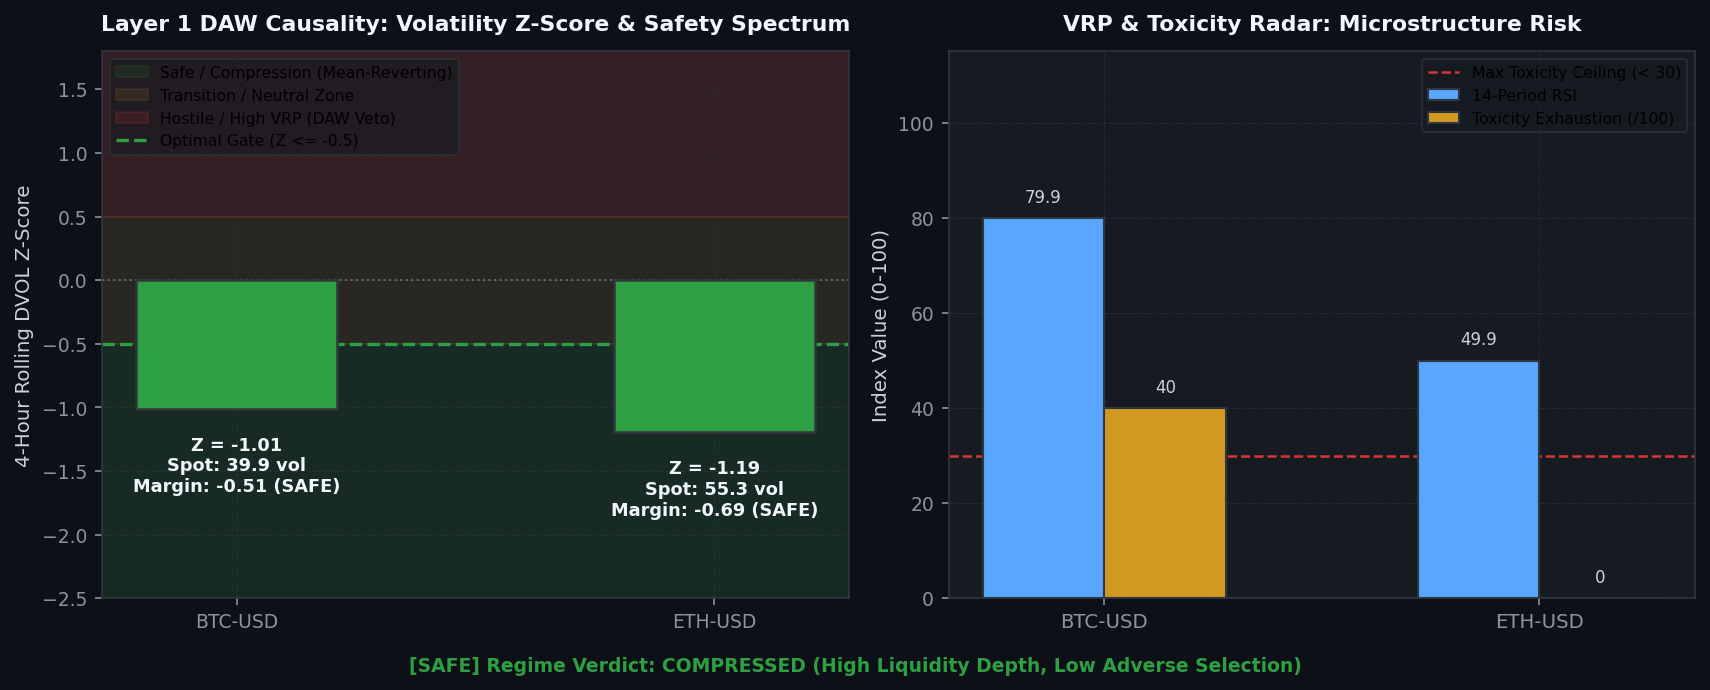
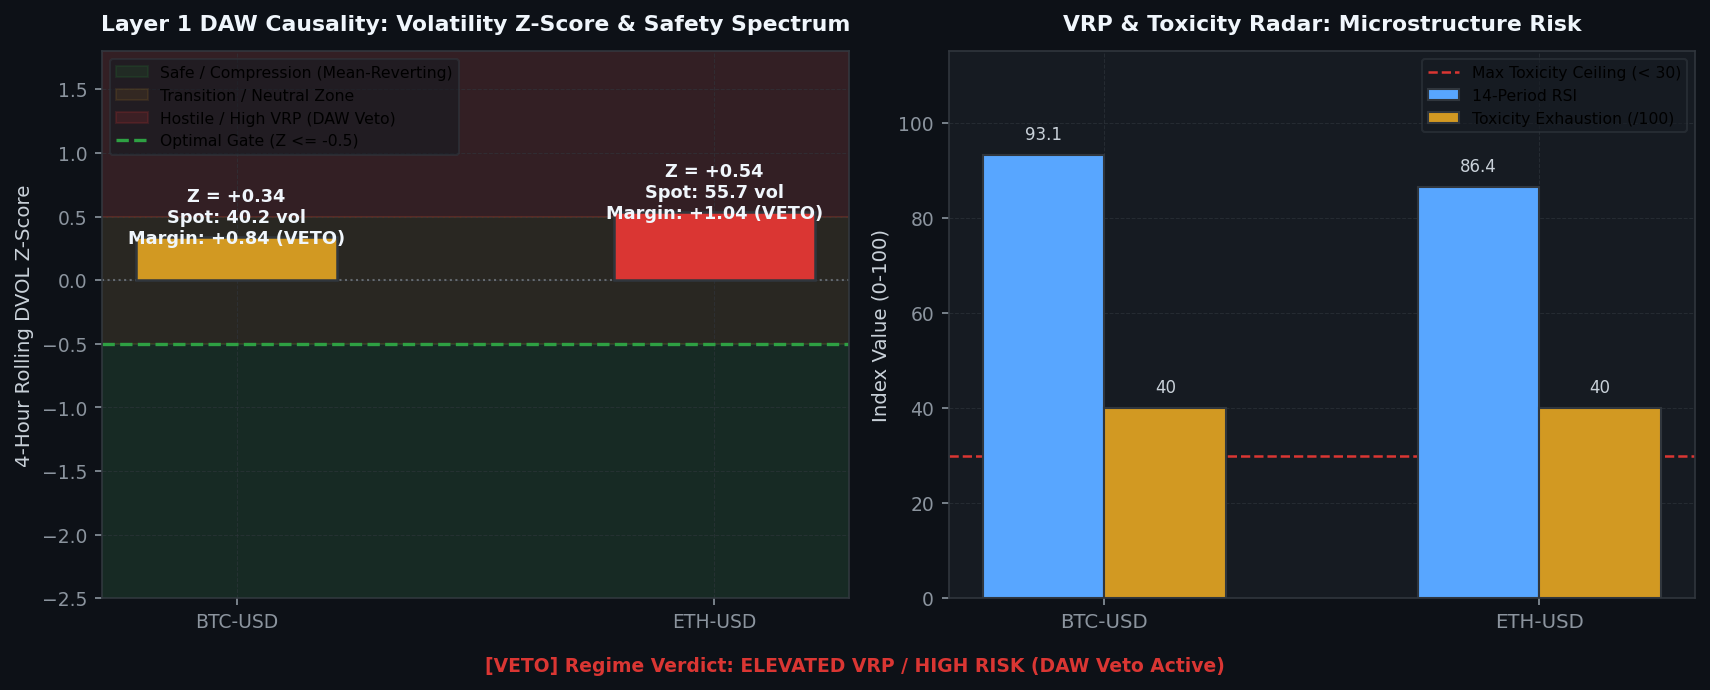
[coinbase] Hourly Status & Visual Intelligence Update: 2026-08-27 02:20:06

diff --git a/coinbase/data/hourly_status_report.md b/coinbase/data/hourly_status_report.md
@@ -3,7 +3,7 @@ layout: default
 ---
 
 # 🛡 Unified Trading System Hourly Status & Visual Intelligence
-> **Report Generated**: `2026-08-27 02:01:43 AM PDT (2026-08-27 09:01:43 UTC)`  
+> **Report Generated**: `2026-08-27 02:19:49 AM PDT (2026-08-27 09:19:49 UTC)`  
 > **System Health**: **🟡 DEGRADED / RESTRICTED** | **Win Rate**: `0.0%` | **Completed Trades**: `0`
 
 
@@ -15,13 +15,13 @@ Real-time Deribit implied volatility (DVOL) proxy tracking against mathematicall
 
 | Symbol | Proxy Oracle | Live Z-Score | Optimal Limit (YSP) | Safety Margin | Live VRP | Optimal VRP (YSP) | DAW Safety Verdict |
 | :--- | :--- | :--- | :--- | :--- | :--- | :--- | :--- |
-| `AVAX-USD` | DVOL_BTC | **-1.01** | **-0.50** | **-0.51** | **+8.05** | 5.0 | 🔴 DAW VETOED |
-| `ETH-USD` | DVOL_ETH | **-1.19** | **-0.50** | **-0.69** | **+23.43** | 5.0 | 🔴 DAW VETOED |
-| `ADA-USD` | DVOL_BTC | **-1.01** | **-0.50** | **-0.51** | **+4.52** | 5.0 | 🟢 SAFE |
-| `DOGE-USD` | DVOL_BTC | **-1.01** | **-0.50** | **-0.51** | **+8.05** | 5.0 | 🔴 DAW VETOED |
-| `BTC-USD` | DVOL_BTC | **-1.01** | **-0.50** | **-0.51** | **+4.56** | 5.0 | 🟢 SAFE |
-| `LINK-USD` | DVOL_BTC | **-1.01** | **-0.50** | **-0.51** | **+8.05** | 5.0 | 🔴 DAW VETOED |
-| `SOL-USD` | DVOL_BTC | **-1.01** | **-0.50** | **-0.51** | **+8.05** | 5.0 | 🔴 DAW VETOED |
+| `AVAX-USD` | DVOL_BTC | **+0.34** | **-0.50** | **+0.84** | **+8.20** | 5.0 | 🔴 DAW VETOED |
+| `ETH-USD` | DVOL_ETH | **+0.47** | **-0.50** | **+0.97** | **+23.77** | 5.0 | 🔴 DAW VETOED |
+| `ADA-USD` | DVOL_BTC | **+0.34** | **-0.50** | **+0.84** | **+4.52** | 5.0 | 🔴 DAW VETOED |
+| `DOGE-USD` | DVOL_BTC | **+0.34** | **-0.50** | **+0.84** | **+8.25** | 5.0 | 🔴 DAW VETOED |
+| `BTC-USD` | DVOL_BTC | **+0.34** | **-0.50** | **+0.84** | **+4.56** | 5.0 | 🔴 DAW VETOED |
+| `LINK-USD` | DVOL_BTC | **+0.34** | **-0.50** | **+0.84** | **+8.20** | 5.0 | 🔴 DAW VETOED |
+| `SOL-USD` | DVOL_BTC | **+0.34** | **-0.50** | **+0.84** | **+8.25** | 5.0 | 🔴 DAW VETOED |
 
 
 
@@ -37,16 +37,16 @@ We hereby certify that the mission-critical algorithmic data assets uploaded by 
 
 | Status | Data Asset | Freshness / State | Details / Timestamp |
 | :---: | :--- | :--- | :--- |
-| ✅ | **Go-List JSON** | Fresh (15.29h old) | 08-26 10:44 |
-| ✅ | **TimesFM Forecasts** | Fresh (2.00h old) | 08-27 00:02 |
-| ❌ | **Holding Times config** | STALE! (137.0h old) | Limit 79.0h |
-| ✅ | **BTC DVOL Cache** | Fresh (0.01h old) | 08-27 02:01 |
-| ✅ | **ETH DVOL Cache** | Fresh (0.01h old) | 08-27 02:01 |
-| ✅ | **Live Trading Telemetry** | Fresh (0.00h old) | 08-27 02:01 |
+| ✅ | **Go-List JSON** | Fresh (15.59h old) | 08-26 10:44 |
+| ✅ | **TimesFM Forecasts** | Fresh (2.30h old) | 08-27 00:02 |
+| ❌ | **Holding Times config** | STALE! (137.3h old) | Limit 79.3h |
+| ✅ | **BTC DVOL Cache** | Fresh (0.00h old) | 08-27 02:19 |
+| ✅ | **ETH DVOL Cache** | Fresh (0.00h old) | 08-27 02:19 |
+| ✅ | **Live Trading Telemetry** | Fresh (0.00h old) | 08-27 02:19 |
 
 <br>
 
-> **Utilization Certification**: ✅ **CERTIFIED.** The Guardian Watchdog is ONLINE and EC2 traders are actively querying the freshest MLOps data artifacts (Found 2082 recent read events).
+> **Utilization Certification**: ✅ **CERTIFIED.** The Guardian Watchdog is ONLINE and EC2 traders are actively querying the freshest MLOps data artifacts (Found 2007 recent read events).
 
 
 ---
@@ -55,7 +55,7 @@ Layer-by-layer tick evaluation waterfall and asset-specific performance tracking
 
 | Funnel Filter Layer | Total Rejections | % of Rejections |
 | :--- | :--- | :--- |
-| Tier 1: Macro Volatility Tensor Gate (Omega_macro) | `14,645` | **100.0%** |
+| Tier 1: Macro Volatility Tensor Gate (Omega_macro) | `14,900` | **100.0%** |
 | Tier 2: Unified Transport & Directional Engine | `0` | **0.0%** |
 | Tier 3: Continuous Hawkes-SFGK Pricer (HAS-Pricer) | `0` | **0.0%** |
 | System: Asset Cooldown Active | `0` | **0.0%** |
@@ -84,7 +84,6 @@ Live balance sheet and open maker liquidity positions from Coinbase CDP.
 | Product | Side | Limit Price | Order ID |
 | :--- | :--- | :--- | :--- |
 | `ACH-USD` | SELL | 0.005507 | `a0d2e243-42b4-4df5-bd23-118f45998df8` |
-| `USDT-USDC` | SELL | 1.0001 | `a69d9998-a1ee-4622-87af-a15bb8d32eaf` |
 | `ADA-USD` | SELL | 0.22853 | `2beee26b-f88c-4929-8625-ec618ae9e32d` |
 | `AVAX-USD` | SELL | 7.708 | `7c4cd0f2-8347-4458-a3a5-8619324273a2` |
 | `ADA-USD` | SELL | 0.22818 | `7af97780-5e33-47e5-9caf-12bec2c8a7d5` |
@@ -96,6 +95,7 @@ Live balance sheet and open maker liquidity positions from Coinbase CDP.
 | `AVAX-USD` | SELL | 7.558 | `fc9234ee-6ef0-4ba3-a44b-d86922f91144` |
 | `ADA-USD` | SELL | 0.21596 | `8d8cdd98-3a3f-408d-ae8a-e4471800c9da` |
 | `BTC-USD` | SELL | 80095.47 | `3baea864-c11f-4e87-be45-af383ab46dfe` |
+| `USDT-USDC` | SELL | 1.0001 | `a69d9998-a1ee-4622-87af-a15bb8d32eaf` |
 
 
 
@@ -103,14 +103,14 @@ Live balance sheet and open maker liquidity positions from Coinbase CDP.
 ## 4. 🤖 Foundation Model MLOps & Pipeline Orchestration
 Weekly Algorithmic Mega Cap selection, Zero-shot multi-step forward return forecasts, and VSTEF parameter grid search status.
 
-- **TimesFM Forecast DB**: 🟢 Updated 2.0h ago (2026-08-27 12:02 AM PDT)
+- **TimesFM Forecast DB**: 🟢 Updated 2.3h ago (2026-08-27 12:02 AM PDT)
 - **Last Weekly VSTEF Optimization**: `2026-08-05 09:22:38 AM PDT`
-- **Next Scheduled VSTEF Run**: `2026-08-30 07:00:00 PM PDT (Monday 02:00 UTC)` (Countdown: **89.0h (3d 16h 58m)**)
+- **Next Scheduled VSTEF Run**: `2026-08-30 07:00:00 PM PDT (Monday 02:00 UTC)` (Countdown: **88.7h (3d 16h 40m)**)
 - **Promoted Parameter Gates**: $Z_{DVOL} \le -0.5$ | Holding Horizon $= 12\text{h}$
 
 ### Algorithmic Mega Cap Selection
 - **Last Run (Confirmation)**: `2026-08-26 10:44:36 AM PDT`
-- **Next Scheduled Run**: `2026-08-30 06:00:00 PM PDT (Monday 01:00 UTC)` (Countdown: **88.0h (3d 15h 58m)**)
+- **Next Scheduled Run**: `2026-08-30 06:00:00 PM PDT (Monday 01:00 UTC)` (Countdown: **87.7h (3d 15h 39m)**)
 - **Selected Mega Cap Universe**: `BTC, BCH, AVAX, ETH, ALGO, ADA, LTC, DOGE, AAVE, LINK, DOT, HBAR`
 
 
@@ -124,20 +124,20 @@ Visualizing the impact of the VSTEF (Volatility-Synchronized Stop-Tightening Exe
 ## 5. 🖥 Multi-Node Infrastructure & Watchdog Matrix
 ```text
 ================================================================================
-   🛡  SFGK FUNNEL GUARDIAN WATCHDOG (HFT ONLY) |  09:01:44 AM
-   CPU:  11.1%  |  MEM:   7.0% (14.3GB / 15.4GB Free)
+   🛡  SFGK FUNNEL GUARDIAN WATCHDOG (HFT ONLY) |  09:19:46 AM
+   CPU:  12.6%  |  MEM:   6.8% (14.4GB / 15.4GB Free)
 ================================================================================
 SERVICE              | PID      | STATUS          | RESTARTS | INFO
 --------------------------------------------------------------------------------
 L3 Consumer          | 1334286  | RUNNING         | -        | Continuous Websocket Feed
 MAO Daemon           | 1334424  | RUNNING         | -        | Oracle Yield Analysis
 U/U Farmer           | 1334426  | RUNNING         | -        | Volume Farmer
-Trader AVAX-USD      | 1393574  | COOL-DOWN       | 190      | Next run in 14.8s
-Trader ETH-USD       | 1393587  | RUNNING         | 197      | Evaluating Funnel/Polling Order
+Trader AVAX-USD      | 1408424  | COOL-DOWN       | 241      | Next run in 14.8s
+Trader ETH-USD       | 1408507  | RUNNING         | 248      | Evaluating Funnel/Polling Order
 Trader ADA-USD       | 1380342  | RUNNING         | 113      | Evaluating Funnel/Polling Order
-Trader DOGE-USD      | 1393425  | COOL-DOWN       | 106      | Next run in 9.3s
+Trader DOGE-USD      | 1408364  | COOL-DOWN       | 157      | Next run in 9.5s
 Trader BTC-USD       | 1380364  | RUNNING         | 146      | Evaluating Funnel/Polling Order
-Trader LINK-USD      | 1393575  | COOL-DOWN       | 118      | Next run in 14.8s
+Trader LINK-USD      | 1408425  | COOL-DOWN       | 169      | Next run in 14.8s
 ```
 
 ---

diff --git a/coinbase/data/visual_intelligence.md b/coinbase/data/visual_intelligence.md
@@ -4,7 +4,7 @@ title: Visual Intelligence Gallery
 ---
 
 # 📈 Visual Intelligence Gallery
-> **Generated:** `2026-08-27 02:02:01`
+> **Generated:** `2026-08-27 02:20:06`
 > **[Return to Main Status Report](./hourly_status_report.md)**
 
 This page visualizes the internal states, market profiles, and decision criteria of the active **3-Tier Fused Decision Engine** across all layers.
